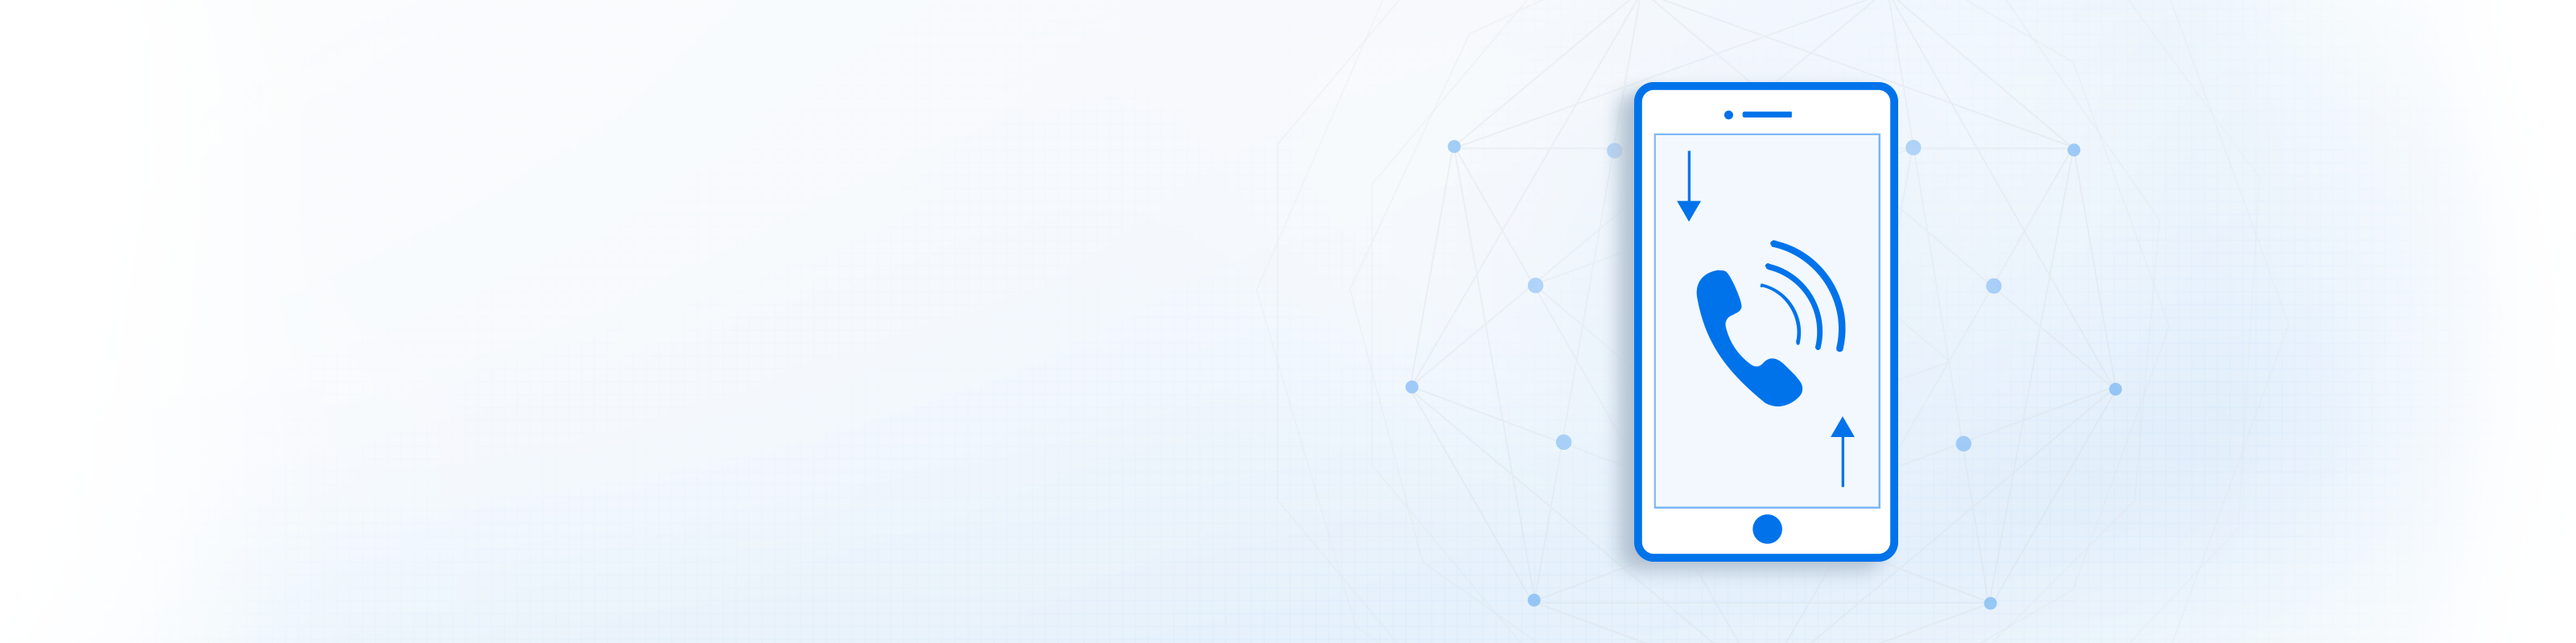
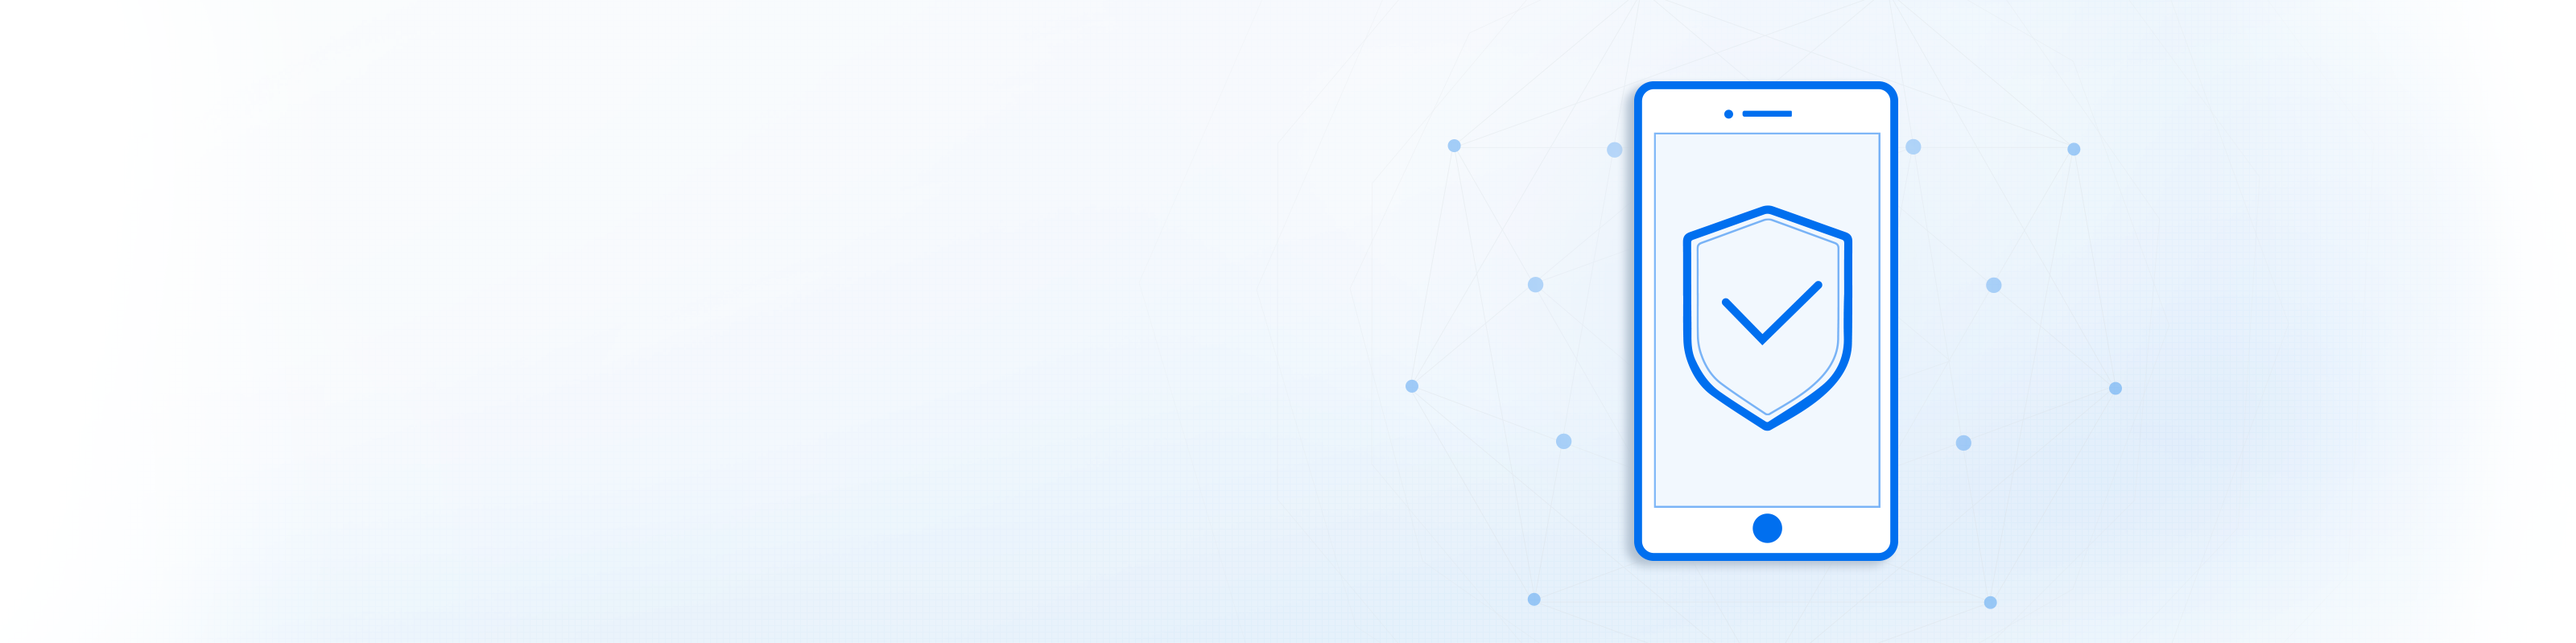
1、banner修改 2、tts页面默认语速调整

diff --git a/external/webroot/src/view/technology/speech-tts.html b/external/webroot/src/view/technology/speech-tts.html
@@ -46,7 +46,7 @@
                             <a class="player play"></a>
                             <span class="demo-speed">
                                 <a class="decrease"><</a>
-                                <span data-speed="3" class="demo-current-speed"></span>
+                                <span data-speed="5" class="demo-current-speed"></span>
                                 <a class="increase">></a>
                             </span>
                             <span class="demo-volume">
